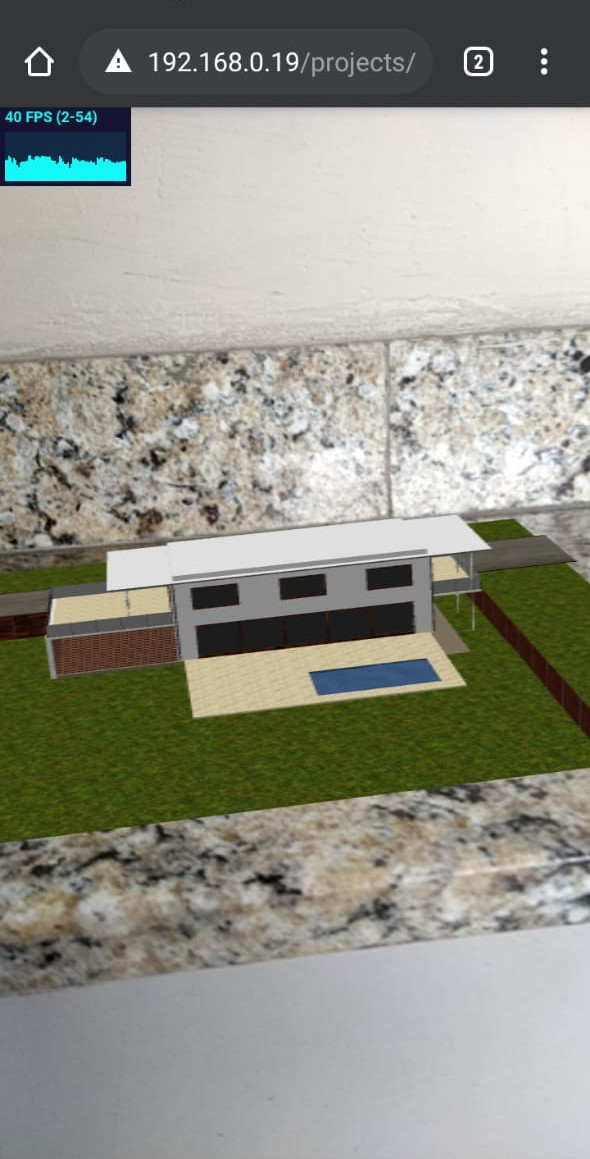
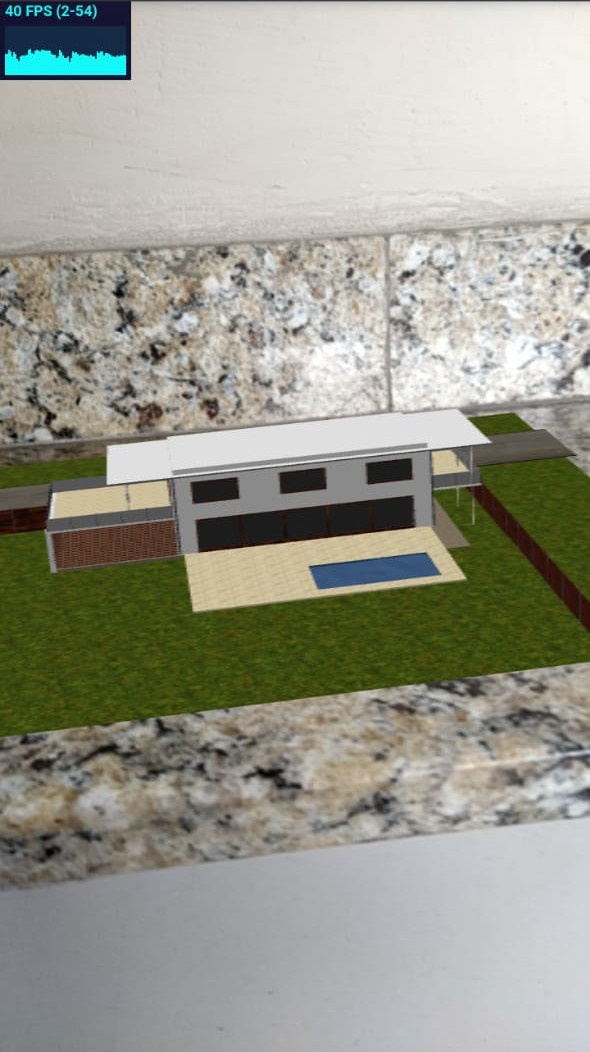
added example image using VR

diff --git a/projects/architecture.html b/projects/architecture.html
@@ -116,7 +116,7 @@
                         style="background: url('img/Architecture/blur-VR.jpg') center;">
                         <div class="w3-padding" style="width:100%">
                             <img src="img/icons/vr-icon.png" alt="Augmented Reality" style="width: 64px;" />
-                            <br />Augmented Reality
+                            <br />Virtual Reality
                         </div>
                     </div>
                 </a>
@@ -142,15 +142,16 @@
         <!-- End of more modes -->
 
         <div class="w3-container w3-padding-32 ">
-            <h3 class="w3-padding-16 w3-border-bottom w3-border-light-grey ">Images in Augmented Reality</h1>
+            <h3 class="w3-padding-16 w3-border-bottom w3-border-light-grey ">
+                Images in Augmented and Virtual Reality
+            </h3>
         </div>
 
         <div class="w3-content w3-display-container w3-center w3-row ">
 
             <img class="slide " src="./img/Architecture/screenshot1-AR.jpg" onclick="openModal(1)">
             <img class="slide " src="./img/Architecture/screenshot2-AR.jpg" onclick="openModal(2)">
-            <!-- <img class="slide " src="./img/Architecture/screenshot3-AR.jpg " onclick="openModal(3)">
-            <img class="slide " src="./img/Architecture/screenshot4-AR.jpg" onclick="openModal(4)"> -->
+            <img class="slide " src="./img/Architecture/example-VR.jpg" onclick="openModal(3)">
 
             <button id="btn-left " class="w3-button w3-black w3-display-left w3-hide-large "
                 onclick="plusDivs(-1) ">&#10094;</button>
@@ -163,8 +164,8 @@
                     style="height: 100%;">
                 <img class="slide-modal w3-display-middle" src="./img/Architecture/screenshot2-AR.jpg"
                     style="height: 100%;">
-                <!-- <img class="slide-modal w3-display-middle" src="./img/Architecture/screenshot3-AR.jpg" style="height: 100%;">
-                <img class="slide-modal w3-display-middle" src="./img/Architecture/screenshot4-AR.jpg" style="height: 100%;"> -->
+                <img class="slide-modal w3-display-middle" src="./img/Architecture/example-VR.jpg"
+                    style="height: 100%;">
 
                 <span class="w3-black w3-text-white w3-opacity w3-display-left w3-btn" onclick="plusModal(-1)">❮</span>
                 <span class="w3-black w3-text-white w3-opacity w3-display-right w3-btn" onclick="plusModal(1)">❯</span>
